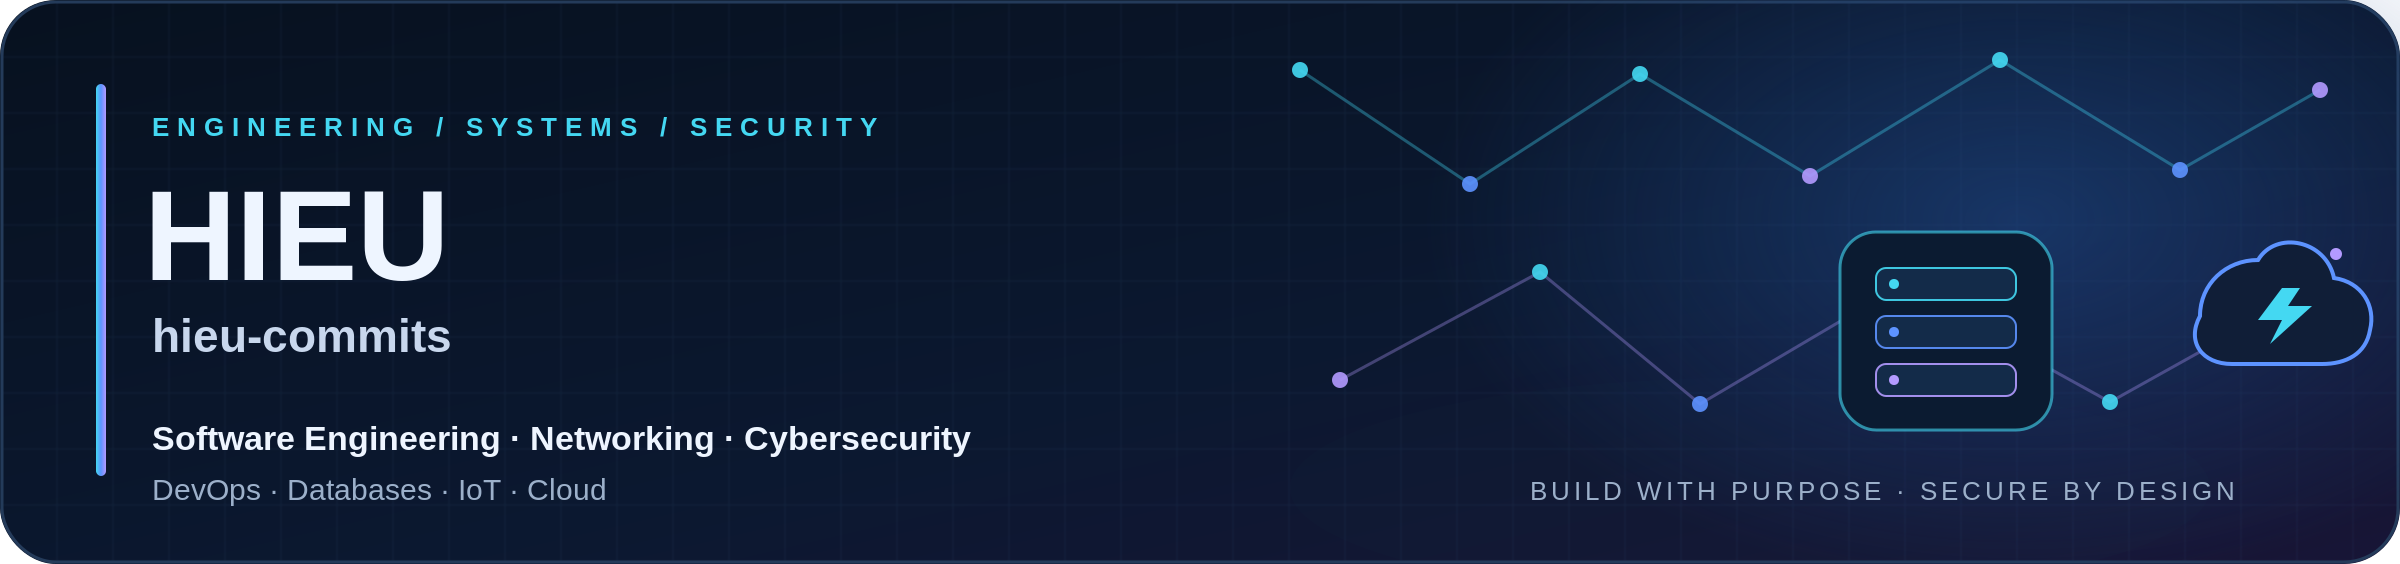
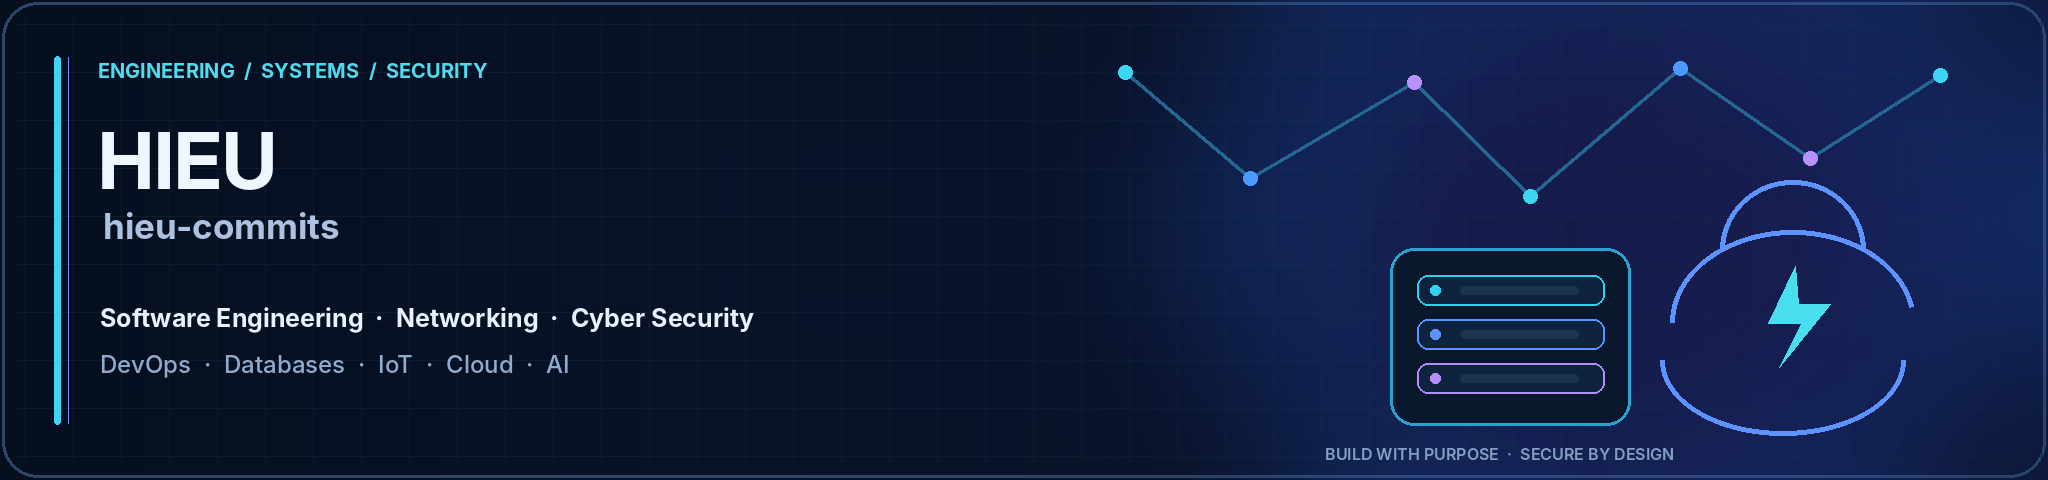
Add playing-card technical stack

diff --git a/README.md b/README.md
@@ -5,7 +5,7 @@ This package intentionally does not include/replace .github/workflows/snake.yml.
 -->
 
 <p align="center">
-  <img src="./assets/profile-banner.png" width="100%" alt="Hieu — Software Engineering, Networking, Cybersecurity, DevOps, Databases, IoT and Cloud" />
+  <img src="./assets/profile-banner.png" width="100%" alt="Hieu — Software Engineering, Networking, Cyber Security, DevOps, Databases, IoT and Cloud" />
 </p>
 
 <h1 align="center">👋 Hi there, I'm Huỳnh Nhật Hiếu!</h1>
@@ -42,84 +42,33 @@ I prefer hands-on learning: implement a small solution, test it, document the re
 
 ---
 
-## Technical Stack
+## Technical Stack — The Engineering Deck
 
-*Technology badges use each tool's recognizable mark where available. Spacing is deliberate so the rows remain easy to scan.*
+Six upright, playing-card-inspired panels organize the tools by discipline. Each card uses a consistent radius, deliberate spacing, custom technology marks, and a **slow, subtle perimeter-light animation** in its own accent color.
 
-<p><img src="./assets/stack-software.png" width="100%" alt="Software Engineering and AI" /></p>
-<p>
-  <a href="https://en.cppreference.com/w/c/language.html"><img src="https://img.shields.io/badge/C-101A2B?style=flat&amp;logo=c&amp;logoColor=A8B9CC" alt="C" /></a>&nbsp;&nbsp;
-  <a href="https://isocpp.org/"><img src="https://img.shields.io/badge/C%2B%2B-101A2B?style=flat&amp;logo=cplusplus&amp;logoColor=00599C" alt="C++" /></a>&nbsp;&nbsp;
-  <a href="https://www.python.org/"><img src="https://img.shields.io/badge/Python-101A2B?style=flat&amp;logo=python&amp;logoColor=3776AB" alt="Python" /></a>&nbsp;&nbsp;
-  <a href="https://dev.java/"><img src="./assets/badge-java.png" height="28" alt="Java badge with coffee cup icon" /></a>&nbsp;&nbsp;
-  <a href="https://developer.mozilla.org/en-US/docs/Web/JavaScript"><img src="https://img.shields.io/badge/JavaScript-101A2B?style=flat&amp;logo=javascript&amp;logoColor=F7DF1E" alt="JavaScript" /></a>&nbsp;&nbsp;
-  <a href="https://developer.mozilla.org/en-US/docs/Web/HTML"><img src="https://img.shields.io/badge/HTML5-101A2B?style=flat&amp;logo=html5&amp;logoColor=E34F26" alt="HTML5" /></a>&nbsp;&nbsp;
-  <a href="https://developer.mozilla.org/en-US/docs/Web/CSS"><img src="https://img.shields.io/badge/CSS3-101A2B?style=flat&amp;logo=css3&amp;logoColor=1572B6" alt="CSS3" /></a>&nbsp;&nbsp;
-  <a href="https://git-scm.com/"><img src="https://img.shields.io/badge/Git-101A2B?style=flat&amp;logo=git&amp;logoColor=F05032" alt="Git" /></a>&nbsp;&nbsp;
-  <a href="https://nodejs.org/"><img src="https://img.shields.io/badge/Node.js-101A2B?style=flat&amp;logo=nodedotjs&amp;logoColor=5FA04E" alt="Node.js" /></a>&nbsp;&nbsp;
-  <a href="https://react.dev/"><img src="https://img.shields.io/badge/React-101A2B?style=flat&amp;logo=react&amp;logoColor=61DAFB" alt="React" /></a>&nbsp;&nbsp;
-  <a href="https://pytorch.org/"><img src="https://img.shields.io/badge/PyTorch-101A2B?style=flat&amp;logo=pytorch&amp;logoColor=EE4C2C" alt="PyTorch" /></a>&nbsp;&nbsp;
-  <a href="https://www.tensorflow.org/"><img src="https://img.shields.io/badge/TensorFlow-101A2B?style=flat&amp;logo=tensorflow&amp;logoColor=FF6F00" alt="TensorFlow" /></a>
+<p align="center">
+  <img src="./assets/tech-card-01.gif" width="31%" alt="Software Engineering and AI technology card" />&nbsp;
+  <img src="./assets/tech-card-02.gif" width="31%" alt="Networking and Infrastructure technology card" />&nbsp;
+  <img src="./assets/tech-card-03.gif" width="31%" alt="Cyber Security technology card" />
 </p>
 
-<p><img src="./assets/stack-network.png" width="100%" alt="Networking and Infrastructure" /></p>
-<p>
-  <a href="https://www.cisco.com/"><img src="https://img.shields.io/badge/Cisco-101A2B?style=flat&amp;logo=cisco&amp;logoColor=1BA0D7" alt="Cisco" /></a>&nbsp;&nbsp;
-  <a href="https://mikrotik.com/"><img src="https://img.shields.io/badge/MikroTik-101A2B?style=flat&amp;logo=mikrotik&amp;logoColor=E21B1B" alt="MikroTik" /></a>&nbsp;&nbsp;
-  <a href="https://www.wireshark.org/"><img src="https://img.shields.io/badge/Wireshark-101A2B?style=flat&amp;logo=wireshark&amp;logoColor=1679A7" alt="Wireshark" /></a>&nbsp;&nbsp;
-  <a href="https://www.eve-ng.net/"><img src="https://img.shields.io/badge/EVE--NG-354866?style=flat&amp;logoColor=FFFFFF" alt="EVE-NG" /></a>&nbsp;&nbsp;
-  <a href="https://www.kernel.org/"><img src="https://img.shields.io/badge/Linux-101A2B?style=flat&amp;logo=linux&amp;logoColor=FCC624" alt="Linux" /></a>&nbsp;&nbsp;
-  <img src="https://img.shields.io/badge/TCP%2FIP-173B68?style=flat" alt="TCP/IP" />&nbsp;&nbsp;
-  <img src="https://img.shields.io/badge/VLAN-166D7A?style=flat" alt="VLAN" />&nbsp;&nbsp;
-  <img src="https://img.shields.io/badge/DNS%20%2F%20IPv6-254C8C?style=flat" alt="DNS and IPv6" />
+<p align="center">
+  <img src="./assets/tech-card-04.gif" width="31%" alt="DevOps and Cloud technology card" />&nbsp;
+  <img src="./assets/tech-card-05.gif" width="31%" alt="Database Engineering technology card" />&nbsp;
+  <img src="./assets/tech-card-06.gif" width="31%" alt="IoT and Connected Systems technology card" />
 </p>
 
-<p><img src="./assets/stack-security.png" width="100%" alt="Cybersecurity" /></p>
-<p>
-  <a href="https://www.kali.org/"><img src="https://img.shields.io/badge/Kali%20Linux-101A2B?style=flat&amp;logo=kalilinux&amp;logoColor=557C94" alt="Kali Linux" /></a>&nbsp;&nbsp;
-  <a href="https://www.metasploit.com/"><img src="https://img.shields.io/badge/Metasploit-101A2B?style=flat&amp;logo=metasploit&amp;logoColor=2596CD" alt="Metasploit" /></a>&nbsp;&nbsp;
-  <a href="https://portswigger.net/burp"><img src="https://img.shields.io/badge/Burp%20Suite-101A2B?style=flat&amp;logo=burpsuite&amp;logoColor=FF6633" alt="Burp Suite" /></a>&nbsp;&nbsp;
-  <a href="https://nmap.org/"><img src="https://img.shields.io/badge/Nmap-101A2B?style=flat&amp;logo=nmap&amp;logoColor=4E8FCB" alt="Nmap" /></a>&nbsp;&nbsp;
-  <a href="https://www.wireshark.org/"><img src="https://img.shields.io/badge/Wireshark-101A2B?style=flat&amp;logo=wireshark&amp;logoColor=1679A7" alt="Wireshark" /></a>&nbsp;&nbsp;
-  <a href="https://www.aircrack-ng.org/"><img src="https://img.shields.io/badge/Aircrack--ng-101A2B?style=flat" alt="Aircrack-ng" /></a>&nbsp;&nbsp;
-  <a href="https://www.splunk.com/"><img src="https://img.shields.io/badge/Splunk-101A2B?style=flat&amp;logo=splunk&amp;logoColor=65A637" alt="Splunk" /></a>&nbsp;&nbsp;
-  <a href="https://www.snort.org/"><img src="https://img.shields.io/badge/Snort-101A2B?style=flat" alt="Snort" /></a>&nbsp;&nbsp;
-  <a href="https://www.tenable.com/products/nessus"><img src="https://img.shields.io/badge/Nessus-101A2B?style=flat" alt="Nessus" /></a>&nbsp;&nbsp;
-  <a href="https://www.fortinet.com/"><img src="https://img.shields.io/badge/Fortinet-101A2B?style=flat&amp;logo=fortinet&amp;logoColor=EE3124" alt="Fortinet" /></a>&nbsp;&nbsp;
-  <a href="https://www.paloaltonetworks.com/"><img src="https://img.shields.io/badge/Palo%20Alto%20Networks-101A2B?style=flat&amp;logo=paloaltonetworks&amp;logoColor=F04E23" alt="Palo Alto Networks" /></a>
-</p>
+<p align="center"><sub>Animated border is a gentle looping GIF. GitHub README does not support CSS hover-only effects, so the light sweep loops instead of waiting for a mouse hover.</sub></p>
 
-<p><img src="./assets/stack-devops.png" width="100%" alt="DevOps and Cloud" /></p>
-<p>
-  <a href="https://www.docker.com/"><img src="https://img.shields.io/badge/Docker-101A2B?style=flat&amp;logo=docker&amp;logoColor=2496ED" alt="Docker" /></a>&nbsp;&nbsp;
-  <a href="https://kubernetes.io/"><img src="https://img.shields.io/badge/Kubernetes-101A2B?style=flat&amp;logo=kubernetes&amp;logoColor=326CE5" alt="Kubernetes" /></a>&nbsp;&nbsp;
-  <a href="https://www.terraform.io/"><img src="https://img.shields.io/badge/Terraform-101A2B?style=flat&amp;logo=terraform&amp;logoColor=7B42BC" alt="Terraform" /></a>&nbsp;&nbsp;
-  <a href="https://www.ansible.com/"><img src="https://img.shields.io/badge/Ansible-101A2B?style=flat&amp;logo=ansible&amp;logoColor=EE0000" alt="Ansible" /></a>&nbsp;&nbsp;
-  <a href="https://github.com/features/actions"><img src="https://img.shields.io/badge/GitHub%20Actions-101A2B?style=flat&amp;logo=githubactions&amp;logoColor=2088FF" alt="GitHub Actions" /></a>&nbsp;&nbsp;
-  <a href="https://aws.amazon.com/"><img src="https://img.shields.io/badge/AWS-101A2B?style=flat&amp;logo=amazonaws&amp;logoColor=FF9900" alt="AWS" /></a>&nbsp;&nbsp;
-  <a href="https://azure.microsoft.com/"><img src="https://img.shields.io/badge/Azure-101A2B?style=flat&amp;logo=microsoftazure&amp;logoColor=0078D4" alt="Microsoft Azure" /></a>&nbsp;&nbsp;
-  <a href="https://grafana.com/"><img src="https://img.shields.io/badge/Grafana-101A2B?style=flat&amp;logo=grafana&amp;logoColor=F46800" alt="Grafana" /></a>&nbsp;&nbsp;
-  <a href="https://prometheus.io/"><img src="https://img.shields.io/badge/Prometheus-101A2B?style=flat&amp;logo=prometheus&amp;logoColor=E6522C" alt="Prometheus" /></a>
-</p>
-
-<p><img src="./assets/stack-database.png" width="100%" alt="Database Engineering" /></p>
-<p>
-  <a href="https://en.wikipedia.org/wiki/SQL"><img src="./assets/badge-sql.png" height="28" alt="SQL database icon" /></a>&nbsp;&nbsp;
-  <a href="https://www.mysql.com/"><img src="https://img.shields.io/badge/MySQL-101A2B?style=flat&amp;logo=mysql&amp;logoColor=4479A1" alt="MySQL" /></a>&nbsp;&nbsp;
-  <a href="https://www.postgresql.org/"><img src="https://img.shields.io/badge/PostgreSQL-101A2B?style=flat&amp;logo=postgresql&amp;logoColor=4169E1" alt="PostgreSQL" /></a>&nbsp;&nbsp;
-  <a href="https://www.mongodb.com/"><img src="https://img.shields.io/badge/MongoDB-101A2B?style=flat&amp;logo=mongodb&amp;logoColor=47A248" alt="MongoDB" /></a>&nbsp;&nbsp;
-  <a href="https://redis.io/"><img src="https://img.shields.io/badge/Redis-101A2B?style=flat&amp;logo=redis&amp;logoColor=FF4438" alt="Redis" /></a>&nbsp;&nbsp;
-  <a href="https://www.sqlite.org/"><img src="https://img.shields.io/badge/SQLite-101A2B?style=flat&amp;logo=sqlite&amp;logoColor=003B57" alt="SQLite" /></a>
-</p>
-
-<p><img src="./assets/stack-iot.png" width="100%" alt="IoT and Connected Systems" /></p>
-<p>
-  <a href="https://mqtt.org/"><img src="https://img.shields.io/badge/MQTT-101A2B?style=flat&amp;logo=mqtt&amp;logoColor=660066" alt="MQTT" /></a>&nbsp;&nbsp;
-  <a href="https://nodered.org/"><img src="https://img.shields.io/badge/Node--RED-101A2B?style=flat&amp;logo=nodered&amp;logoColor=8F0000" alt="Node-RED" /></a>&nbsp;&nbsp;
-  <a href="https://www.raspberrypi.com/"><img src="https://img.shields.io/badge/Raspberry%20Pi-101A2B?style=flat&amp;logo=raspberrypi&amp;logoColor=C51A4A" alt="Raspberry Pi" /></a>&nbsp;&nbsp;
-  <a href="https://www.home-assistant.io/"><img src="https://img.shields.io/badge/Home%20Assistant-101A2B?style=flat&amp;logo=homeassistant&amp;logoColor=18BCF2" alt="Home Assistant" /></a>&nbsp;&nbsp;
-  <img src="https://img.shields.io/badge/Telemetry-0B7A71?style=flat" alt="Telemetry" />&nbsp;&nbsp;
-  <img src="https://img.shields.io/badge/API%20Integration-2456A6?style=flat" alt="API Integration" />
+<p align="center">
+  <a href="https://www.python.org/"><img src="https://img.shields.io/badge/Python-0B1729?style=flat&logo=python&logoColor=3776AB" alt="Python" /></a>&nbsp;
+  <a href="https://dev.java/"><img src="https://img.shields.io/badge/Java-0B1729?style=flat&logo=openjdk&logoColor=ED8B00" alt="Java" /></a>&nbsp;
+  <a href="https://developer.mozilla.org/en-US/docs/Web/JavaScript"><img src="https://img.shields.io/badge/JavaScript-0B1729?style=flat&logo=javascript&logoColor=F7DF1E" alt="JavaScript" /></a>&nbsp;
+  <a href="https://www.kali.org/"><img src="https://img.shields.io/badge/Kali_Linux-0B1729?style=flat&logo=kalilinux&logoColor=557C94" alt="Kali Linux" /></a>&nbsp;
+  <a href="https://www.docker.com/"><img src="https://img.shields.io/badge/Docker-0B1729?style=flat&logo=docker&logoColor=2496ED" alt="Docker" /></a>&nbsp;
+  <a href="https://www.mysql.com/"><img src="https://img.shields.io/badge/MySQL-0B1729?style=flat&logo=mysql&logoColor=4479A1" alt="MySQL" /></a>&nbsp;
+  <a href="https://www.fortinet.com/"><img src="https://img.shields.io/badge/Fortinet-0B1729?style=flat&logo=fortinet&logoColor=EE3124" alt="Fortinet" /></a>&nbsp;
+  <a href="https://www.paloaltonetworks.com/"><img src="https://img.shields.io/badge/Palo_Alto_Networks-0B1729?style=flat&logo=paloaltonetworks&logoColor=F04E23" alt="Palo Alto Networks" /></a>
 </p>
 
 ---
@@ -131,7 +80,7 @@ The cards below represent **project directions and lab tracks**, not claims that
 <table>
   <tr>
     <td width="33.33%" valign="top">
-      <p align="center"><a href="https://github.com/hieu-commits?tab=repositories"><img src="./assets/project-card-security.png" width="100%" alt="Cybersecurity lab track" /></a></p>
+      <p align="center"><a href="https://github.com/hieu-commits?tab=repositories"><img src="./assets/project-card-security.png" width="100%" alt="Cyber Security lab track" /></a></p>
       <h3>🛡 RedTeam-Pentest-Lab</h3>
       <p>Authorized lab scenarios for vulnerability assessment, service discovery, traffic inspection and documenting findings.</p>
       <p>
@@ -231,7 +180,7 @@ When an article is published, replace the topic text with a link to the article 
 
 <p align="center">
   <strong>Think in systems. Build with purpose. Secure by design.</strong><br />
-  <sub>Software Engineering · Networking · Cybersecurity · DevOps · Databases · IoT · Cloud</sub><br /><br />
+  <sub>Software Engineering · Networking · Cyber Security · DevOps · Databases · IoT · Cloud</sub><br /><br />
   <a href="https://github.com/hieu-commits">GitHub</a>&nbsp;&nbsp;·&nbsp;&nbsp;
   <a href="https://hieu-commits.github.io">Portfolio</a>
 </p>
